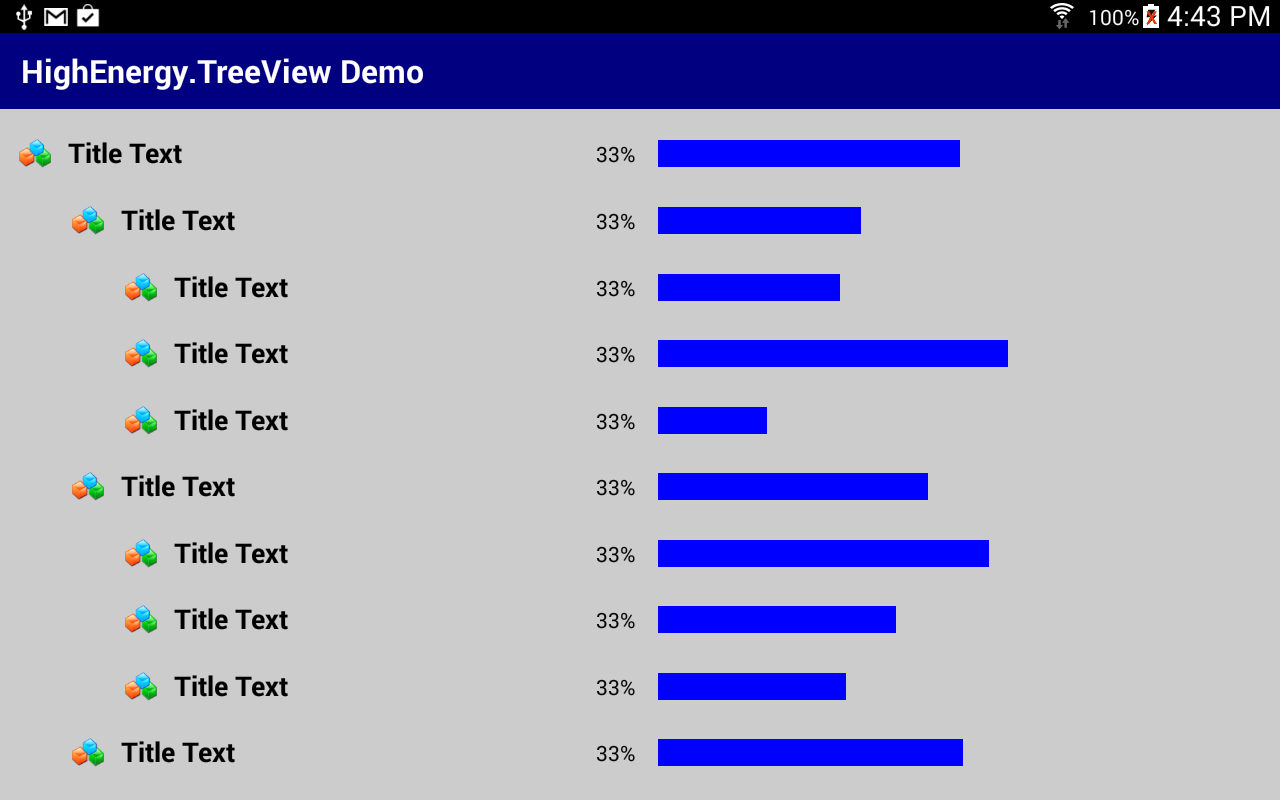
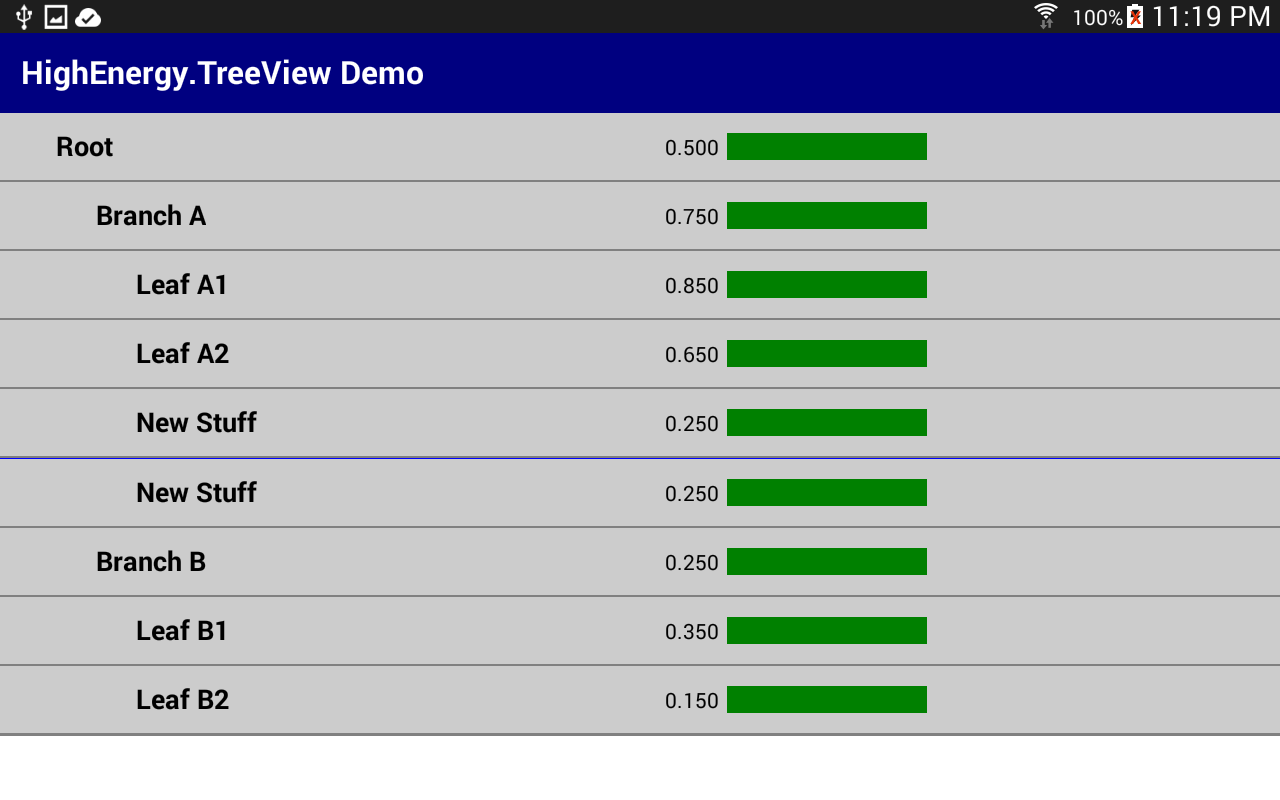
updated screen capture image; a bit of demo code cleanup

diff --git a/Xamarin.Forms.TreeView/HighEnergy.TreeView.Demo/DemoModule/DemoTreeViewModel.cs b/Xamarin.Forms.TreeView/HighEnergy.TreeView.Demo/DemoModule/DemoTreeViewModel.cs
@@ -24,21 +24,21 @@ namespace HighEnergy.TreeView.Demo
             MyTree = new DemoTreeNode { Title = "Root", Score = 0.5, IsExpanded = true };
 
             var a = MyTree.ChildNodes.Add(new DemoTreeNode { Title = "Branch A", Score = 0.75, IsExpanded = false });
-            var a1 = a.ChildNodes.Add(new DemoTreeNode { Title = "Leaf A1", Score = 0.85, IsExpanded = true });
-            var a2 = a.ChildNodes.Add(new DemoTreeNode { Title = "Leaf A2", Score = 0.65, IsExpanded = true });
+            a.ChildNodes.Add(new DemoTreeNode { Title = "Leaf A1", Score = 0.85, IsExpanded = true });
+            a.ChildNodes.Add(new DemoTreeNode { Title = "Leaf A2", Score = 0.65, IsExpanded = true });
 
             var b = MyTree.ChildNodes.Add(new DemoTreeNode { Title = "Branch B", Score = 0.25, IsExpanded = true });
-            var b1 = b.ChildNodes.Add(new DemoTreeNode { Title = "Leaf B1", Score = 0.35, IsExpanded = true });
-            var b2 = b.ChildNodes.Add(new DemoTreeNode { Title = "Leaf B2", Score = 0.15, IsExpanded = true });
+            b.ChildNodes.Add(new DemoTreeNode { Title = "Leaf B1", Score = 0.35, IsExpanded = true });
+            b.ChildNodes.Add(new DemoTreeNode { Title = "Leaf B2", Score = 0.15, IsExpanded = true });
 
 //            var c = MyTree.ChildNodes.Add(new DemoTreeNode { Title = "Branch C", Score = 0.25, IsExpanded = true });
 //            var c1 = c.ChildNodes.Add(new DemoTreeNode { Title = "Leaf C1", Score = 0.35, IsExpanded = true });
 //            var c2 = c.ChildNodes.Add(new DemoTreeNode { Title = "Branch C2", Score = 0.15, IsExpanded = true });
-//            var c2a = c2.ChildNodes.Add(new DemoTreeNode { Title = "Leaf C2a", Score = 0.15, IsExpanded = true });
+//            c2.ChildNodes.Add(new DemoTreeNode { Title = "Leaf C2a", Score = 0.15, IsExpanded = true });
 //
 //            var d = MyTree.ChildNodes.Add(new DemoTreeNode { Title = "Branch D", Score = 0.25, IsExpanded = true });
-//            var d1 = d.ChildNodes.Add(new DemoTreeNode { Title = "Leaf D1", Score = 0.35, IsExpanded = true });
-//            var d2 = d.ChildNodes.Add(new DemoTreeNode { Title = "Leaf D2", Score = 0.15, IsExpanded = true });
+//            d.ChildNodes.Add(new DemoTreeNode { Title = "Leaf D1", Score = 0.35, IsExpanded = true });
+//            d.ChildNodes.Add(new DemoTreeNode { Title = "Leaf D2", Score = 0.15, IsExpanded = true });
 
             AddNodeCommand = new Command(
                 obj => 
